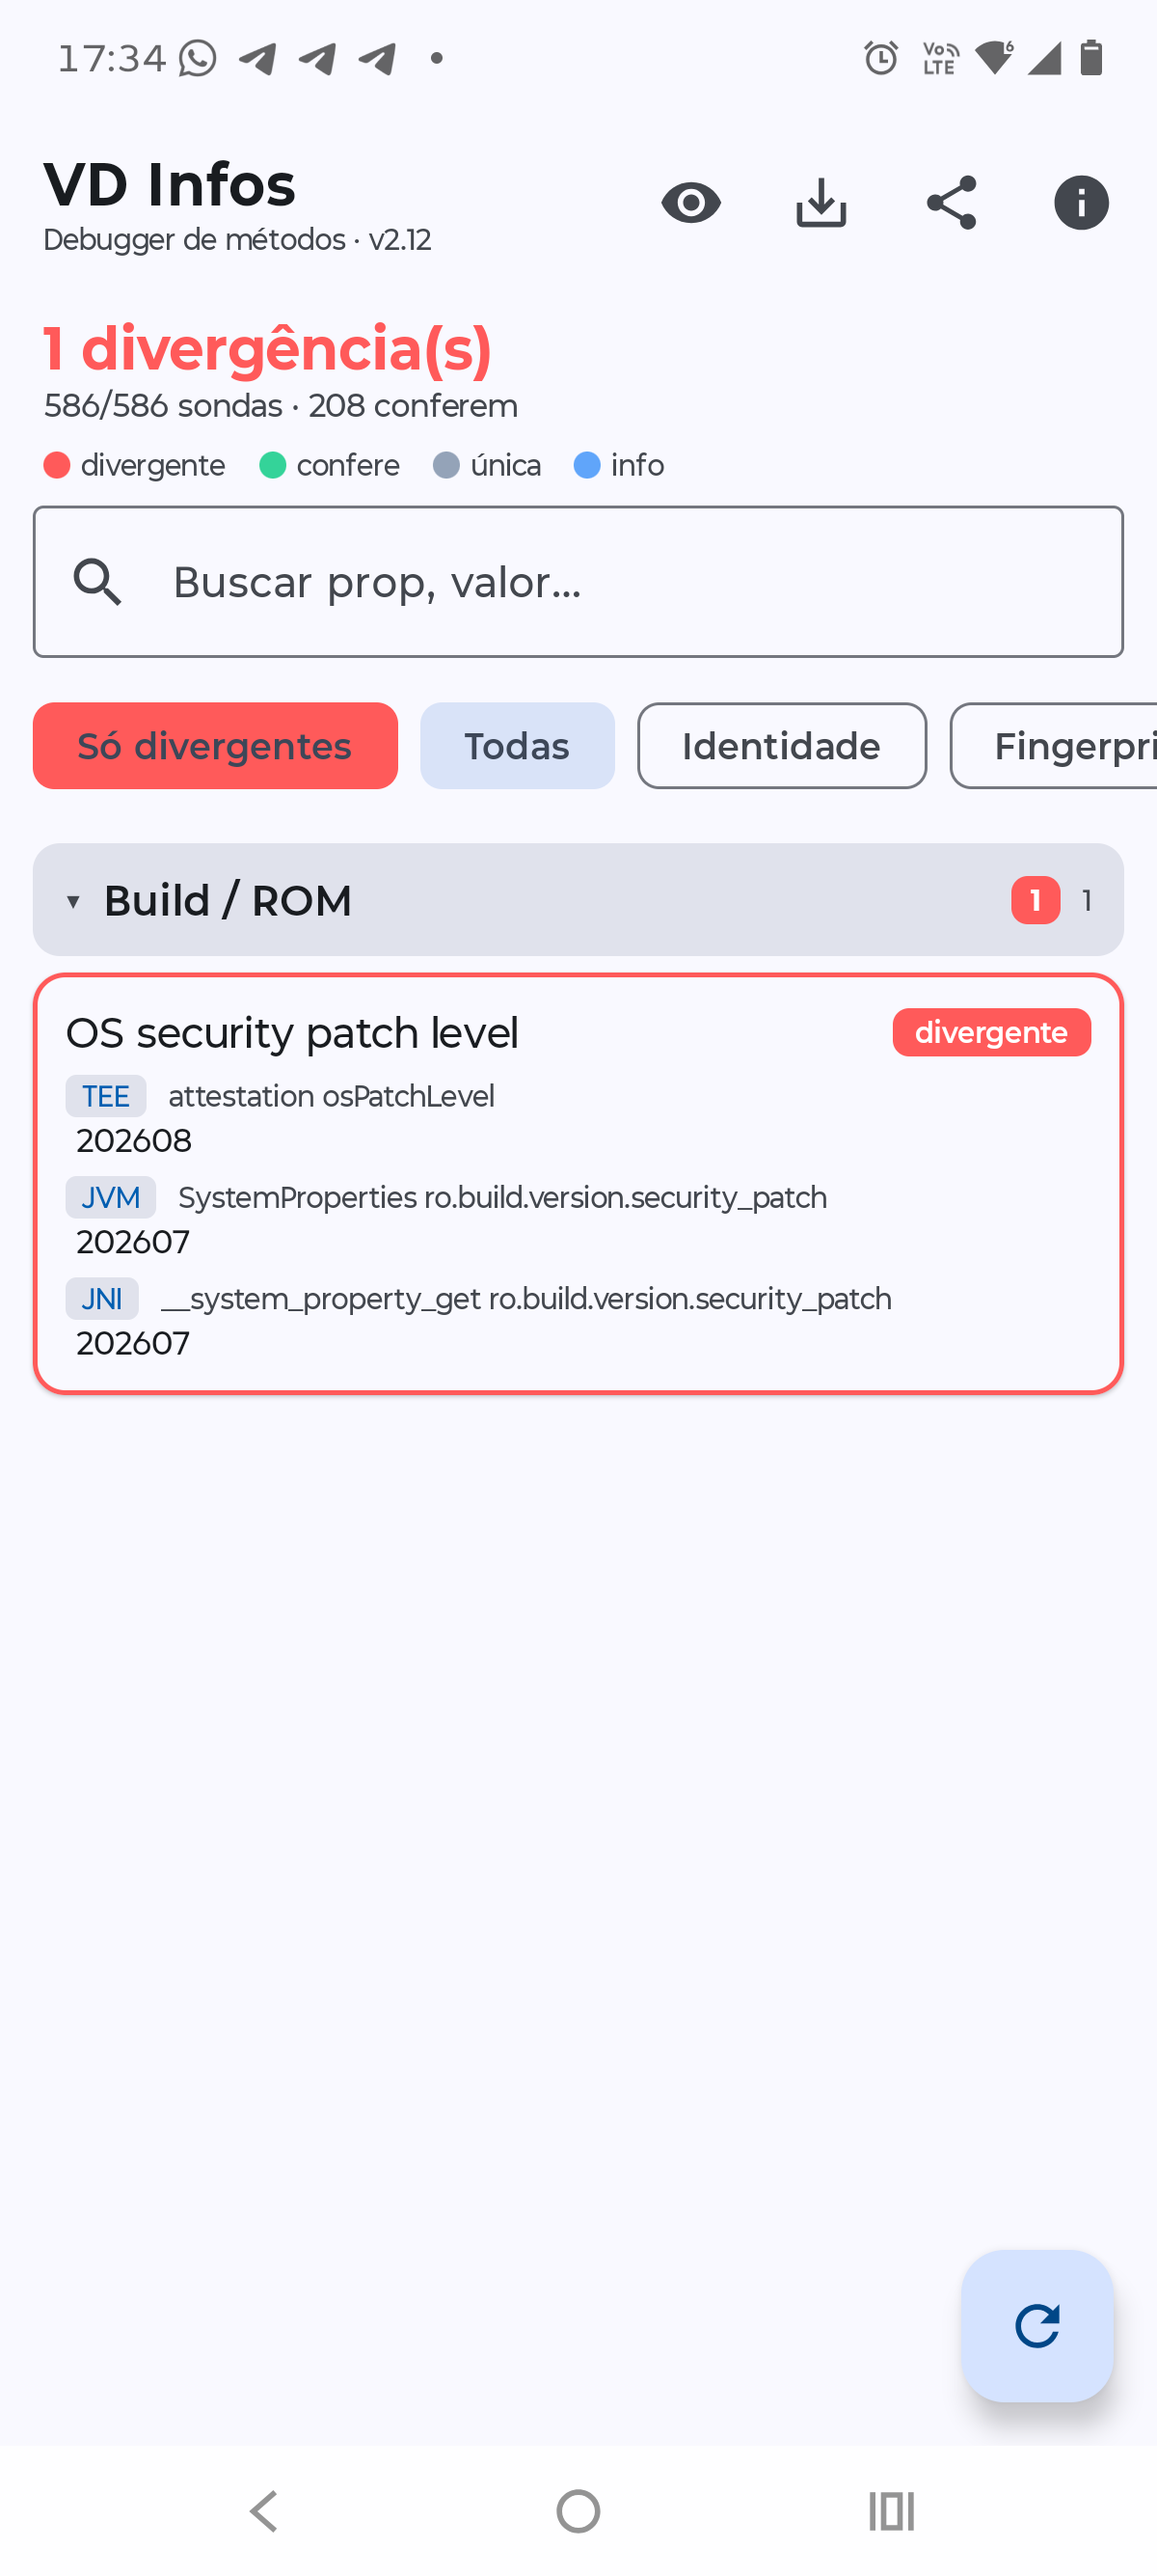
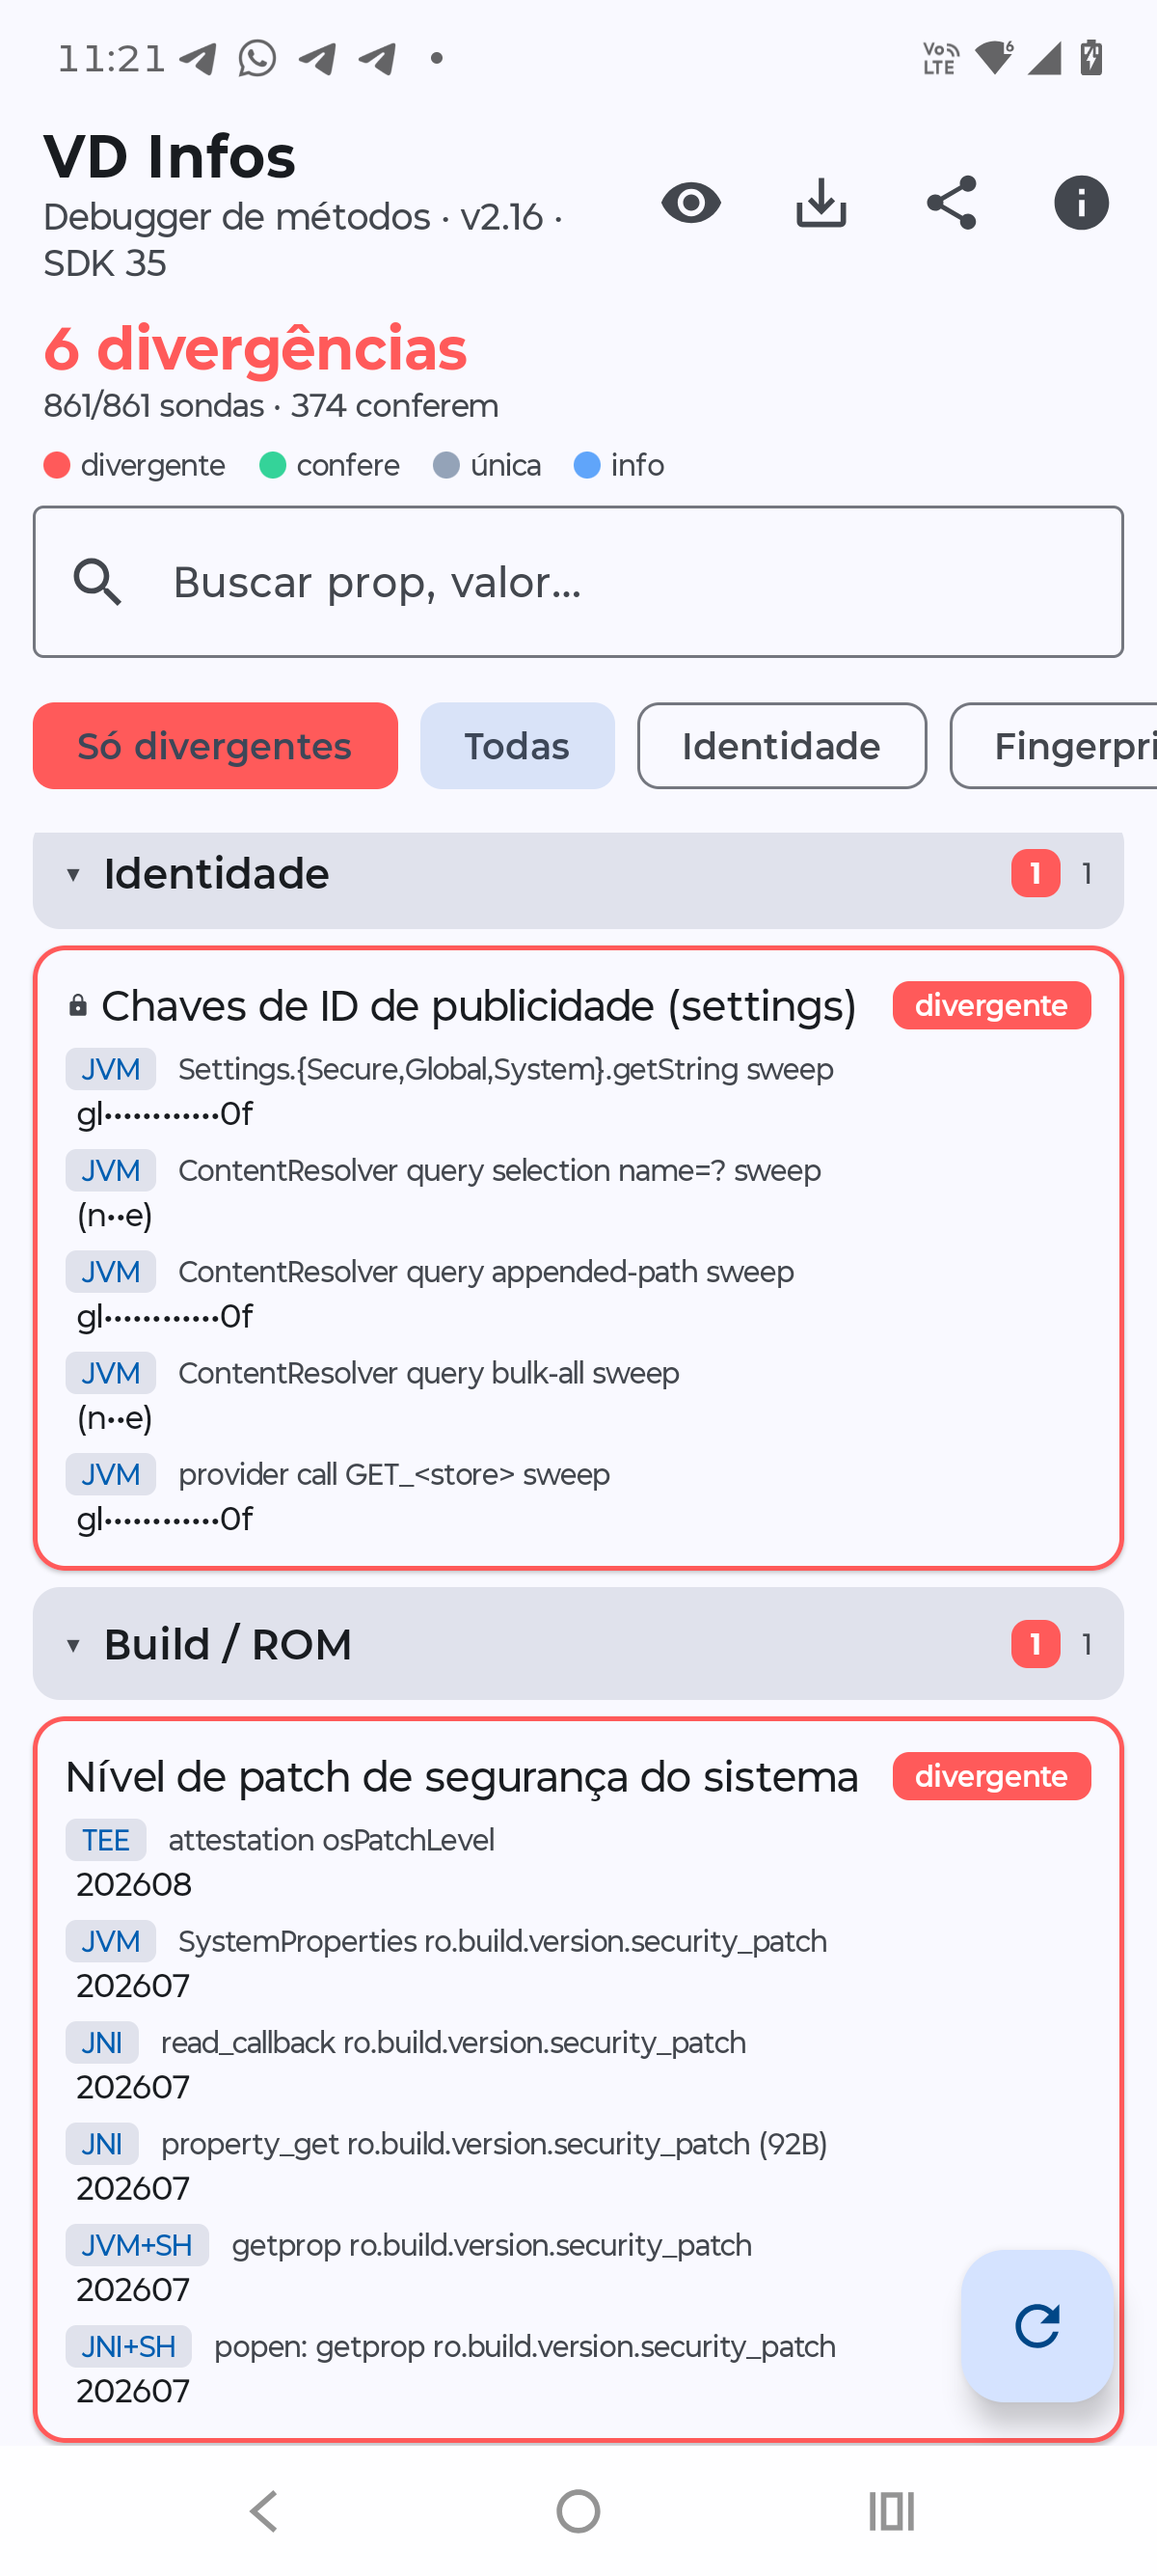
docs: v2.16 (spoof-consistency universal, prop-area holes, bootimage/MSA ids, 861 probes) + novas capturas

diff --git a/CHANGELOG.md b/CHANGELOG.md
@@ -6,6 +6,152 @@ The 2.x line is a ground-up rewrite; the last public 1.x release was
 [v1.11-beta6](https://github.com/VD171/VD-Infos/releases/tag/v1.11-beta6)
 (2024-12-02). Everything between it and 2.00 is the rewrite described below.
 
+## [Unreleased]
+
+## [2.16] - 2026-09-13
+
+- **Settings spoof consistency, read by every path.** A spoofed setting can be read
+  from an app through several different routes, and a spoofer does not always cover
+  them equally. The new spoof-consistency probes read each spoofed key
+  (`ad_aaid`, `android_id`, `device_name`, `bluetooth_name`, the accessibility and
+  developer toggles, `mock_location`, `oem_unlock_allowed`, `tts_default_synth`,
+  `stay_on_while_plugged_in`, and more) through all in-process routes at once:
+  `Settings.*.getString`, `ContentResolver.query` by appended path
+  (`content://settings/<store>/<key>`), by selection (`name=?`), by bulk table sweep,
+  and the provider `call(GET_<store>)` - across the global, secure and system stores,
+  with the unhooked shell `settings get` alongside as a reference. The engine crosses
+  them, so a value that is spoofed on one route and not another (`MISMATCH`) is a tell
+  that a real detector can exploit by simply switching routes. Measured on a Motorola
+  Android 16: the bulk-table sweep never returns synthetic spoof-only keys, and the
+  selection route only returns them on some backend builds - both real inconsistencies
+  that a single-method reader was blind to.
+
+- **Spoofed keys, the ad-id family and spoofed properties come from a central hub,
+  not the binary.** The root layer writes the current spoof matrix, the advertising-id
+  key family and the list of spoofed system properties into the app's own `filesDir`
+  (`vd_hub_matrix_keys.txt`, `vd_hub_ads_keys.txt`, `vd_hub_spoofed_props.txt`), which
+  an untrusted app can read where `/data/adb` cannot. When a hub file is present it
+  replaces the built-in default, so changing what is spoofed or validated is an edit
+  to the shared source of truth (`VD.json`) rather than a rebuild of the app; the
+  built-in lists stay as a fallback when the hub is absent.
+- **INT settings are also read through `getInt`, not only `getString`.** A method-level
+  spoofer can hook `Settings.*.getInt` without touching `getString` (XPL-EX-style privacy
+  modules hook the two separately); the consistency probes read an INT-typed key through
+  `getInt` across the three stores now, next to the `getString` sweep, so a hook on one
+  door and not the other stands out. Types come from the same central matrix, so which
+  keys are INT is data, not code.
+- **The validators now cover exactly what the root layer spoofs.** 38 system
+  properties the module rewrites had no cross-method validator and were added to the
+  catalogue; the advertising-id family (`ad_aaid` and its siblings) is read through
+  all five property and settings routes rather than one; and six more HMA-spoofed
+  settings keys joined the consistency matrix, keeping it in step with the detector's
+  own list.
+
+- **Spoof consistency went UNIVERSAL: every setting, not just our matrix.** The app is meant
+  to be public, so the spoof-consistency check can no longer live off a curated list of the keys
+  *we* know our own root layer spoofs. The new `spoof:sweep` probe enumerates each settings store
+  once (`global`/`secure`/`system`) and, for EVERY key the provider exposes, compares the value the
+  cached API (`Settings.*.getString`, what apps read and what hooks target) returns against the raw
+  provider `query` value - any key whose two doors disagree is a spoof that covers one and not the
+  other. Plus the injection case: a key served by the API but absent from the provider in ALL three
+  stores (the `ad_aaid` pattern - a value conjured only on the API path). The injection test is
+  cross-store on purpose, so a "moved" setting (e.g. `adb_enabled`, which `Settings.System.getString`
+  auto-redirects to Global on any device) is not mistaken for an injection. Measured on a Motorola
+  Android 16: 426 keys swept (229+140+57), all consistent, and the one real tell caught -
+  `ad_aaid` injected by the API with no provider row anywhere. ~26 s, cheaper than the old per-key
+  matrix (which re-scanned the whole store for every key). The curated per-key probes stay as the
+  focused, full-8-path detail for the highest-value keys; the sweep is the universal net.
+
+- **The device's own firmware props are the ruler: bootimage partition added.** The
+  stock `build.prop`/`prop.default` of this device's boot partitions
+  (`vienna-kernel-build/device/props`) is the ground truth a spoof diverges from. The
+  `init_boot`/`boot` ramdisk carries its OWN build identity, which stays at the
+  codename-shared values on stock (`ro.bootimage.build.id=...M...`,
+  `ro.product.bootimage.model=motorola edge 50 neo`, `ro.product.bootimage.name=vienna_g_sys`).
+  A fingerprint/model spoofer that rewrites `ro.build.*`/`ro.product.*` but forgets this
+  partition leaves a divergence - the same class as the b7524745 gap, across partitions.
+  18 firmware props that had no probe were added to the catalogue (measured on vienna: the app
+  reads `ro.hardware.soc.manufacturer`, `ro.build.ab_update`, `ro.treble.enabled` and
+  `ro.boot.dynamic_partitions`, while the `ro.bootimage.build.*`/`ro.product.bootimage.*` family and
+  `ro.mot.build.guid` come back null - their prop context is SELinux-restricted from untrusted_app,
+  so their cross-partition value applies where policy lets an app read them, or catches a future
+  exposure; all lenses agree on the null, so there is no false positive):
+  the `ro.bootimage.build.*` and `ro.product.bootimage.*` families (each read by getprop,
+  native read_callback, native property_get and shell, so a method-level hook on any one
+  stands out), plus `ro.mot.build.guid`, `ro.hardware.soc.manufacturer`, `ro.build.ab_update`,
+  `ro.treble.enabled` and `ro.boot.dynamic_partitions`. The bootimage product variant also
+  joins the `dev:model/brand/manufacturer/device/product` family view as non-voting context,
+  next to the vendor/system/odm variants, so the whole partition picture is visible at once.
+
+- **The advertising / anonymous-device IDs of Chinese OEMs are read now too.** Beyond Google's
+  advertising ID, the MSA-alliance identifiers an app can read on Xiaomi/MIUI and similar OEMs
+  (OAID, VAID, AAID, UDID) are read two ways each - the `com.android.id.impl.IdProviderImpl` class by
+  reflection and the `com.miui.idprovider` content provider - and the two are crossed, so a spoof
+  that covers one path and not the other stands out. Null on a device without the MSA provider
+  (e.g. Motorola). The user-profile creation time (`UserManager.getUserCreationTime`), an
+  anti-fingerprint spoof target, is read as well. Measured on a Xiaomi Android 12: VAID and AAID
+  resolve and agree across both paths.
+
+- **Structural property-area tamper, not just the value.** A new native probe
+  (`integrity:prop_area_holes`) reads the value of a property; this reads the SHAPE of
+  the store it lives in. bionic keeps each SELinux context's properties in a memory
+  file under `/dev/__properties__/`, laid out as a bump-allocated trie: a freshly built
+  area is one contiguous run. A `resetprop`/injection rewrites the area in place, and a
+  value that no longer fits its slot strands the old bytes - an aligned hole the trie no
+  longer points at. The probe walks every property area this process already has mapped
+  (enumerated from `/proc/self/maps`, so it needs no `opendir` of the `0711` directory
+  and no re-open that SELinux would gate per prop type - it reads memory the app legally
+  holds) and reports `AVAILABLE`, `CONTEXTS` and `HOLES`. A spoof that reads perfectly
+  clean by every getter still shows its footprint here. Measured on a Motorola Android
+  16 (build-time prop cloning, no runtime resetprop): 74 contexts, 0 holes, ~28 ms - the
+  expected clean baseline; a resetprop-based spoofer would report holes.
+
+- **The process's supplementary groups are surfaced (AID_READPROC).** The group set of the running
+  process is read three ways (`/proc/self/status` via the file API, native, and shell) and crossed; a
+  gid 3009 (`AID_READPROC`) in the set means the app can read other processes' `/proc` - a privilege
+  an ordinary app never holds, and the key the LSPosed Privisolated mount-view check keys on.
+
+- **Two builds now, one variable: the target SDK.** A `compat` product flavor
+  (applicationId suffix `.compat`, so it installs beside the normal app) targets
+  SDK 27 and therefore lands in the `untrusted_app_27` SELinux domain, while the
+  default `modern` build targets 35 and lands in the strict `untrusted_app`. The
+  two apps read the same device from two different sandboxes, so comparing their
+  snapshots isolates exactly what the platform gates on target SDK. The build
+  self-labels the result - `self:targetSdk` and `selinux:attr_current` print the
+  target and the domain each ran in - and the launcher icon carries the number in a
+  bottom-left badge so the two are told apart on the home screen.
+  Measured on a Motorola Android 16: dropping to target 27 restored PACKAGE
+  VISIBILITY (the compat build sees 509 installed packages against the modern
+  build's 482) but did NOT restore `ip`/netlink or `/sys/class/net` - those stay
+  refused to `untrusted_app_27` too on this ROM. So here package visibility is
+  target-gated and the netlink lockdown is not: it is the ROM's SELinux policy, not
+  the target SDK, that denies netlink to an untrusted app on this device.
+- **The target SDK is shown in the header and the About dialog**, read at runtime,
+  so the running build states which sandbox it is.
+- **The catalogue of root, hiding and detection apps was widened.** The root-manager
+  set gained the current Magisk and KernelSU forks; three sets were added - apps that
+  require root, apps that hunt for root (root, emulator and Play Integrity detectors)
+  and remote-access, ssh and root file managers - plus a set of root-adjacent tools.
+  Each set is checked in this process (getPackageInfo) against another process
+  (`pm list packages`), so a framework that hides an app from one door and not the
+  other is caught. Package names are matched by exact equality only.
+- **A false divergence on long properties is gone.** The 92-byte
+  `__system_property_get` cannot hold a value past its buffer and reports
+  `TOO_LONG_FOR_92B_API`; a long fingerprint overflowed it while the other four
+  routes read it in full. That reading now counts as an instrument limit, shown but
+  not voting, so the fingerprint no longer reads as divergent.
+- **The device serial reads the same on every target.** `Build.getSerial()` throws
+  for an app targeting Q or later (reported as a refusal) but degrades to the literal
+  "unknown" for one targeting P or earlier; that "unknown" is normalised to the same
+  refusal token now, so the serial no longer shows a false divergence on the compat
+  build.
+- **The installed-package shell check is portable across ROMs.** It passed patterns
+  as repeated `-e` flags, which some device `grep` builds honour only for the first,
+  collapsing a multi-package match to a single line; it passes them as one
+  newline-separated argument to `grep -Fx` now.
+- **A filter that leaves a single list opens it, and a single item expands it**, so a
+  narrow filter shows its content without another tap.
+
 ## [2.15]
 
 - **A dead string, for the third time, so the build enforces it now.** Removing a

diff --git a/README.pt-BR.md b/README.pt-BR.md
@@ -27,7 +27,7 @@ internet com um firewall ou simplesmente desligue a internet.
 Cada item é lido por todos os métodos que conseguem lê-lo (SDK Java / nativo /
 shell), comparados lado a lado:
 
-* **~445 propriedades do sistema** lidas de CINCO formas: `SystemProperties.get`,
+* **~495 propriedades do sistema** lidas de CINCO formas: `SystemProperties.get`,
   as duas entradas da bionic (`__system_property_read_callback` e a de 92 bytes,
   `__system_property_get`), `getprop` disparado pela JVM e `getprop` disparado do
   código nativo por `popen` - um comando de shell rodado pelo `ProcessBuilder` e o
@@ -81,7 +81,7 @@ ui/             Jetpack Compose, Material 3, cor dinâmica, progresso ao vivo
 cpp/            native_probes.cpp - a lente nativa, sem dependências
 ```
 
-* **Paralelismo**: 777 sondas em fan-out no dispatcher default com concorrência
+* **Paralelismo**: 861 sondas em fan-out no dispatcher default com concorrência
   limitada; os resultados entram no UI conforme chegam.
 * **Ação em background**: um job do WorkManager re-varre no cronograma, faz diff do
   último snapshot e notifica quando um valor muda.

diff --git a/README.md b/README.md
@@ -26,7 +26,7 @@ block internet access with a firewall or just turn it off.
 Each item is read through every method that can read it (Java SDK / native / shell),
 compared side by side:
 
-* **~445 system properties** read FIVE ways: `SystemProperties.get`, both of
+* **~495 system properties** read FIVE ways: `SystemProperties.get`, both of
   bionic's entry points (`__system_property_read_callback` and the 92-byte
   `__system_property_get`), `getprop` spawned by the JVM, and `getprop` spawned
   from native code through `popen` - a shell command run by `ProcessBuilder` and
@@ -81,7 +81,7 @@ ui/             Jetpack Compose, Material 3, dynamic colour, live progress
 cpp/            native_probes.cpp - the native lens, dependency-free
 ```
 
-* **Parallelism**: 777 probes fan out across the default dispatcher with a bounded
+* **Parallelism**: 861 probes fan out across the default dispatcher with a bounded
   permit count; results stream into the UI as they land.
 * **Background action**: a WorkManager job re-scans on a schedule, diffs against the
   last capture, and notifies when any value drifts.
